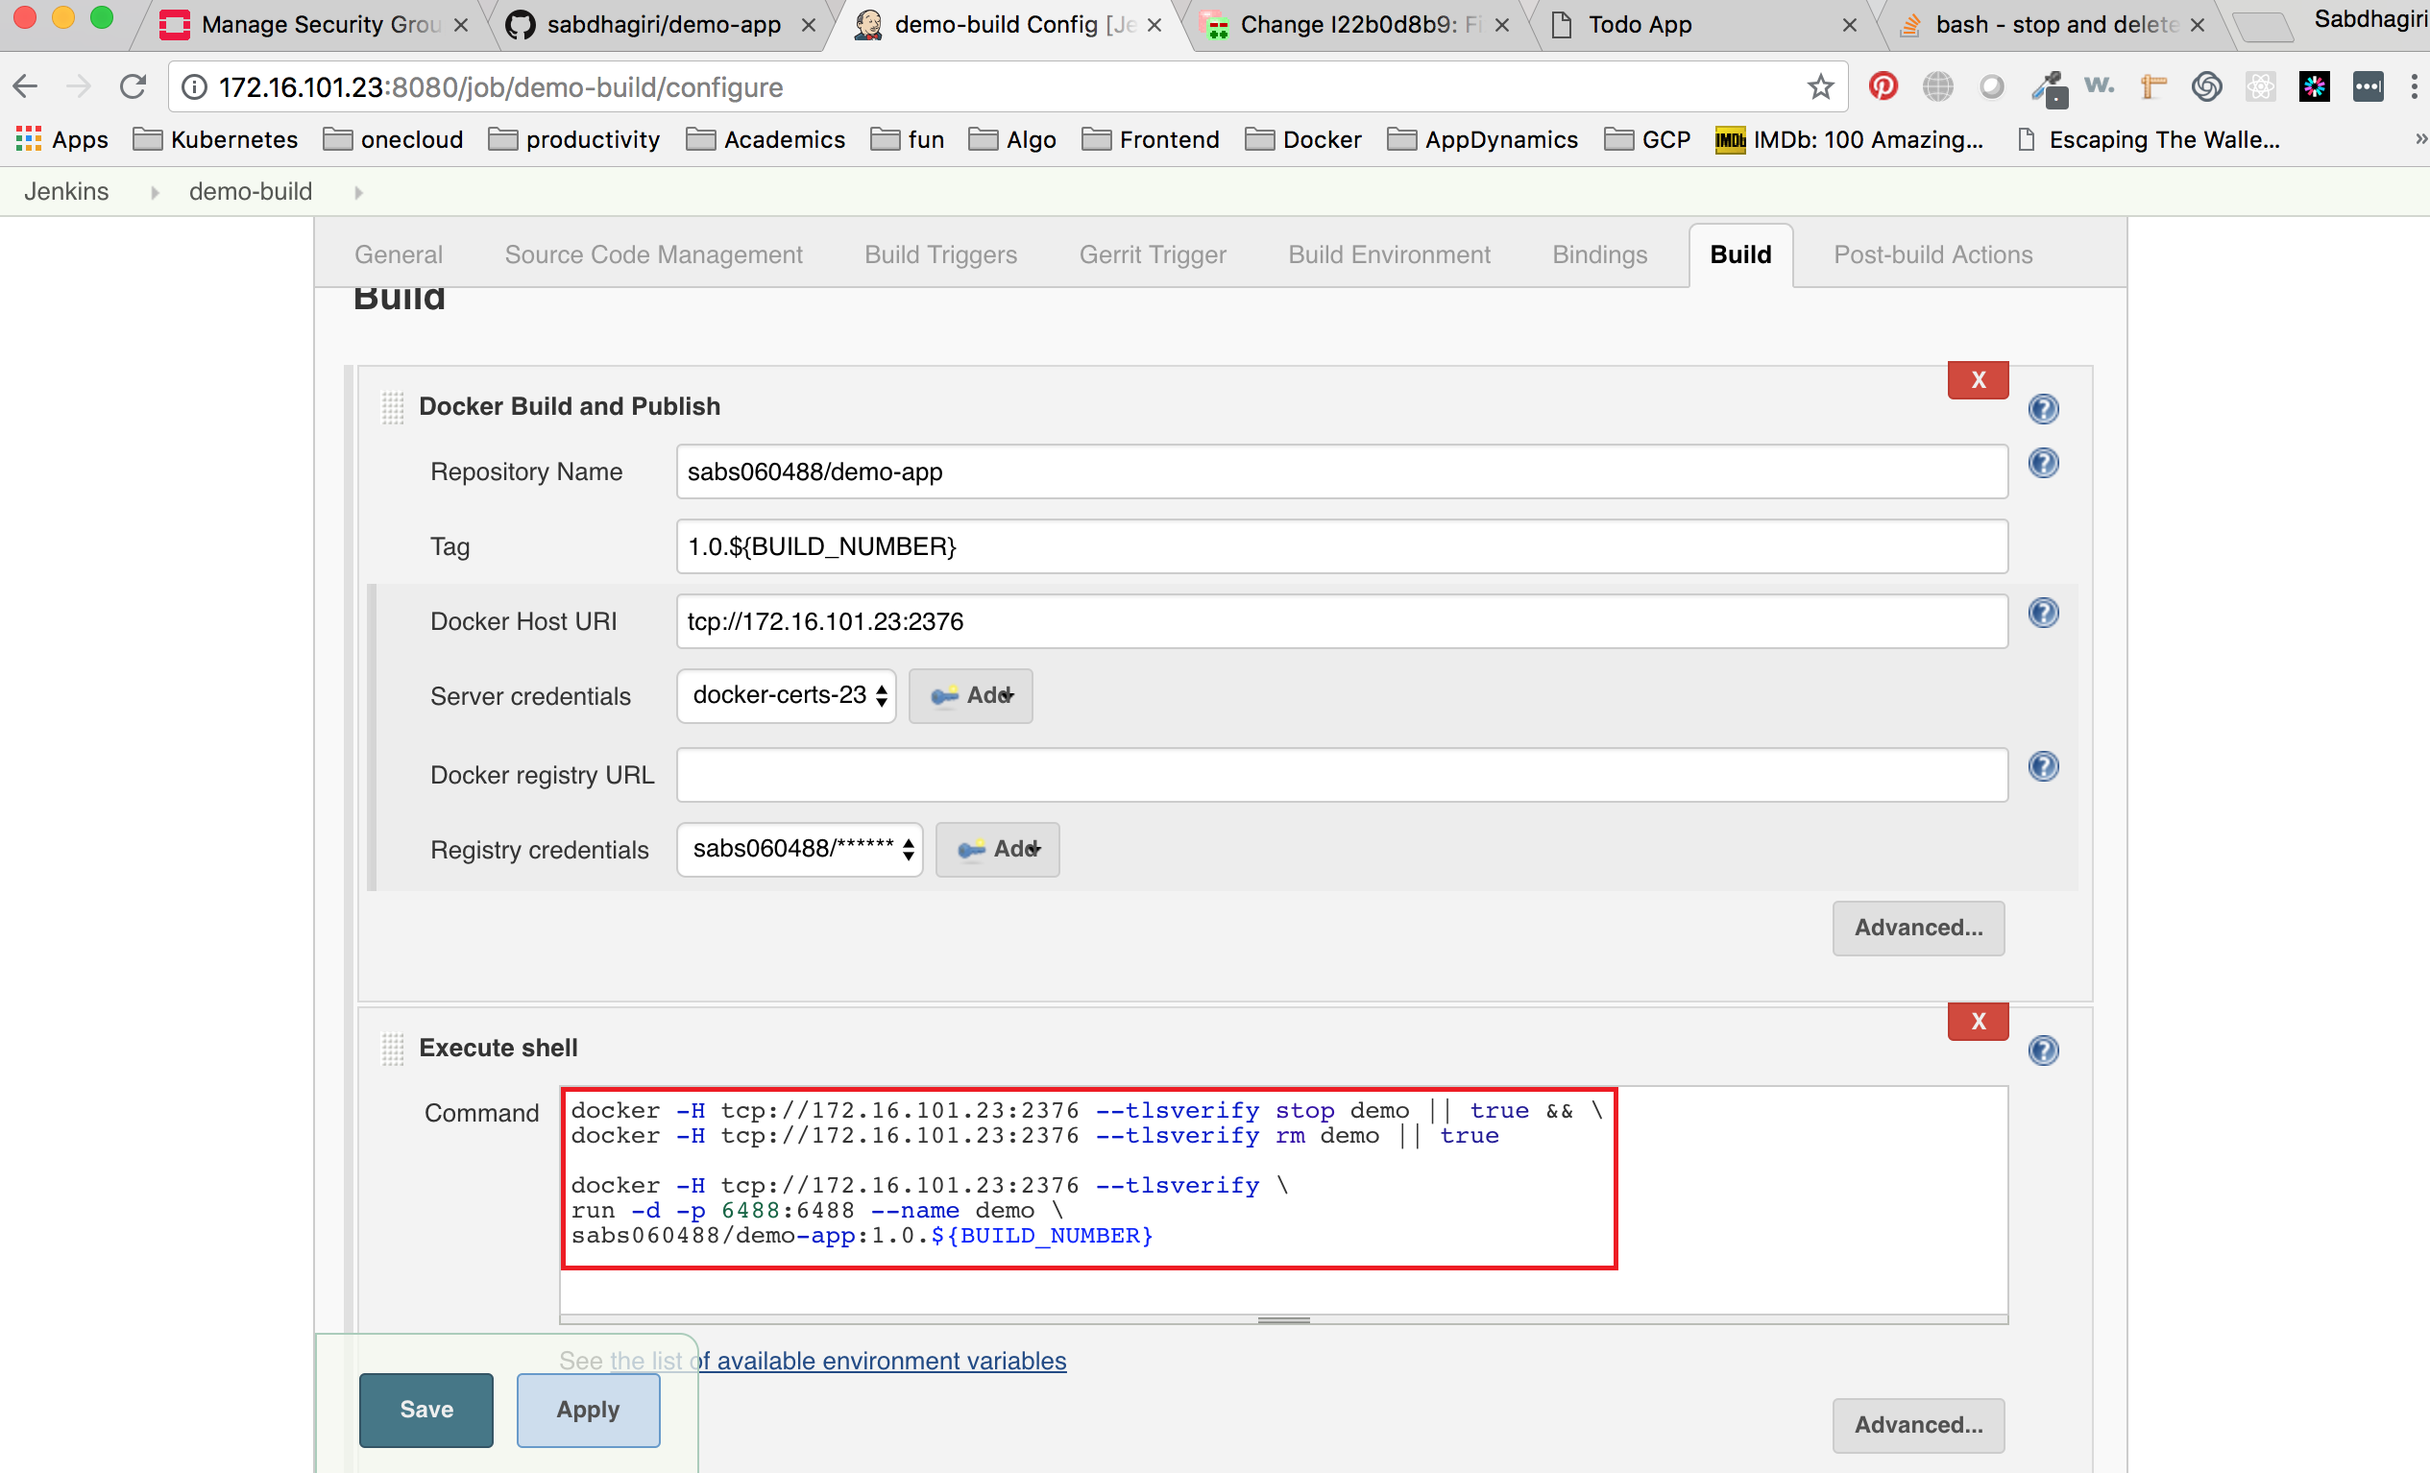
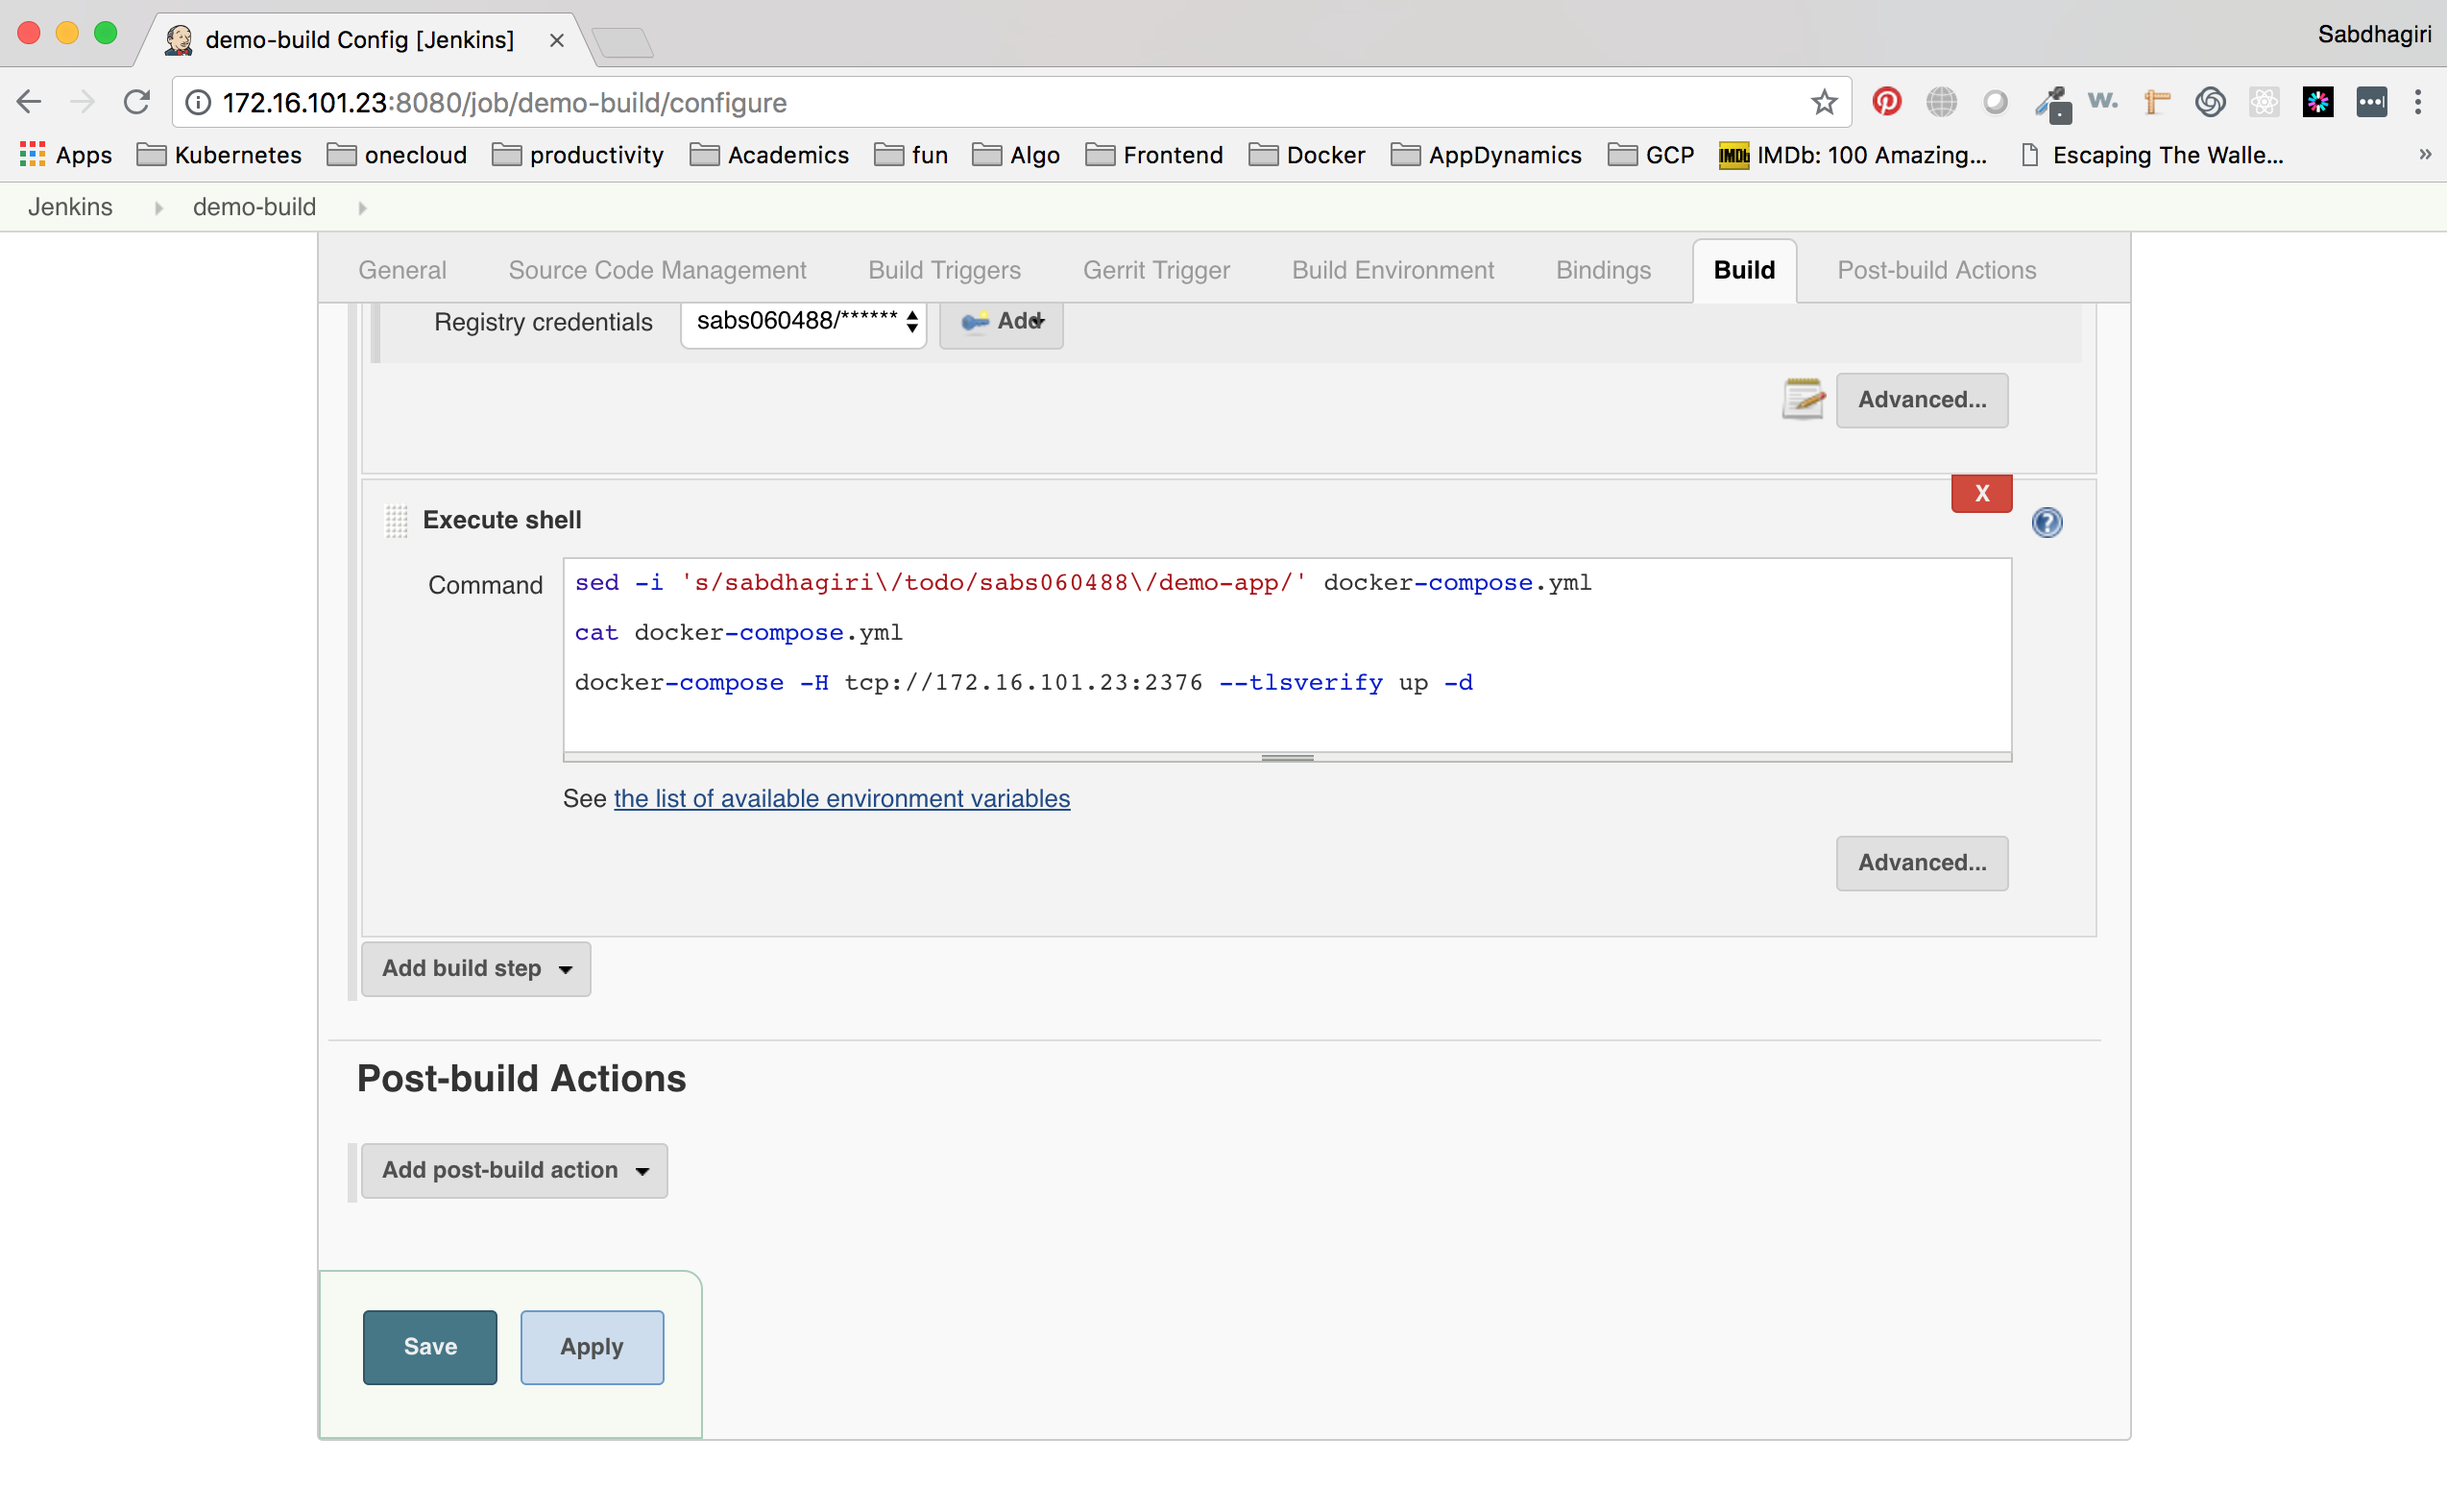
Fixed few typos and updated command for CD lab

diff --git a/lab-guide.md b/lab-guide.md
@@ -22,6 +22,7 @@
 <h3>Setup gerrit</h3>
 
 <h5>1.1 Update systemand install pre-requisites</h5>
+
 <p>Before beginning with installing gerrit, we need to be sure that git is installed and set up on our server.
 If, by any chance, it is not already installed on your cloud server, you can get it quickly through apt-get:</p>
 
@@ -46,12 +47,13 @@ gerrit@cicd-lab:~$ pwd
 ~~~
 
 <h5>1.3 Download gerrit war file and verify java install</h5>
+
 <p>In order to work, gerrit requires Java to be installed on the server.</p>
 
 ~~~bash
 gerrit@cicd-lab:~$ wget https://www.gerritcodereview.com/download/gerrit-2.12.8.war -O gerrit.war
 
-gerrit@cicd-lab:~$ java –version
+gerrit@cicd-lab:~$ java --version
 
 Example Output:
 -------------------------------------------------------------------------------
@@ -63,6 +65,7 @@ OpenJDK 64-Bit Server VM (build 25.171-b11, mixed mode)
 ~~~
 
 <h5>1.4 Initialize gerrit code review site</h5>
+
 <p>By default gerrit runs on port 8080 and git ssh runs on 29418, if you want to change, open gerrit config file "vim ~/gerrit_server/etc/gerrit.config". In this example I prefer to use 8000 port instead of 8080</p>
 
 ~~~bash
@@ -408,7 +411,7 @@ ubuntu@cicd-lab:~$ docker exec -it -u root jenkins bash
 
 root@5a2f3d6d9005:~# apt-get update && apt-get -y install \
 apt-transport-https ca-certificates curl gnupg2 \
-software-properties-common
+software-properties-common vim python-dev
 
 root@5a2f3d6d9005:~# curl -fsSL https://download.docker.com/linux/$(. /etc/os-release; echo "$ID")/gpg > /tmp/dkey; apt-key add /tmp/dkey
 
@@ -419,6 +422,11 @@ root@5a2f3d6d9005:~# add-apt-repository \
 
 root@5a2f3d6d9005:~# apt-get update && \
 apt-get -y install docker-ce
+
+root@5a2f3d6d9005:~# curl -L https://github.com/docker/compose/releases/download/1.21.2/docker-compose-$(uname -s)-$(uname -m) -o /usr/local/bin/docker-compose
+
+root@5a2f3d6d9005:~# chmod +x /usr/local/bin/docker-compose
+
 ~~~
 
 <h5>Login to the jenkins UI and complete the setup</h5>
@@ -562,12 +570,24 @@ Unable to negotiate with 172.16.101.23 port 29418: no matching key exchange meth
 We can overcome this no matching key exchange method by including a config file for the ssh.
 
 ~~~bash
-jenkins@5a2f3d6d9005:~$ echo "Host 172.16.101.23
->     Hostname 172.16.101.23
->     Port 29418
->     IdentityFile ~/.ssh/id_rsa
->     KexAlgorithms +diffie-hellman-group1-sha1" > ~/.ssh/config
+jenkins@5a2f3d6d9005:~$ vim ~/.ssh/config
+~~~
 
+and paste the following content into it
+
+~~~bash
+
+Host 172.16.101.23
+    Hostname 172.16.101.23
+    Port 29418
+    IdentityFile ~/.ssh/id_rsa
+    KexAlgorithms +diffie-hellman-group1-sha1
+
+~~~
+
+Now, verify access
+
+~~~bash
 jenkins@5a2f3d6d9005:~$ ssh jenkins_admin@172.16.101.23 -p 29418
 
 Example output:
@@ -624,7 +644,6 @@ As gerrit admin user we have to add the jenkins_admin user to the Non-Interactiv
 
 You can signup for a new Github account if you don't have one already
 
-**`TODO: Include screenshots from Mike's Lab guide content`**
 
 Once you login to your account
 
@@ -1493,12 +1512,11 @@ Let's edit our existing demo-build job in jenkins.
 Add Shell commands in "Execute Shell" section
 
 ~~~bash
-docker -H tcp://172.16.101.23:2376 --tlsverify stop demo || true && \
-docker -H tcp://172.16.101.23:2376 --tlsverify rm demo || true
+sed -i 's/sabdhagiri\/todo/sabs060488\/demo-app/' docker-compose.yml
 
-docker -H tcp://172.16.101.23:2376 --tlsverify \
-run -d -p 6488 --name demo \
-sabs060488/demo-app:1.0.$(BUILD_NUMBER)
+cat docker-compose.yml
+
+docker-compose -H tcp://172.16.101.23:2376 --tlsverify up -d
 ~~~
 
 
